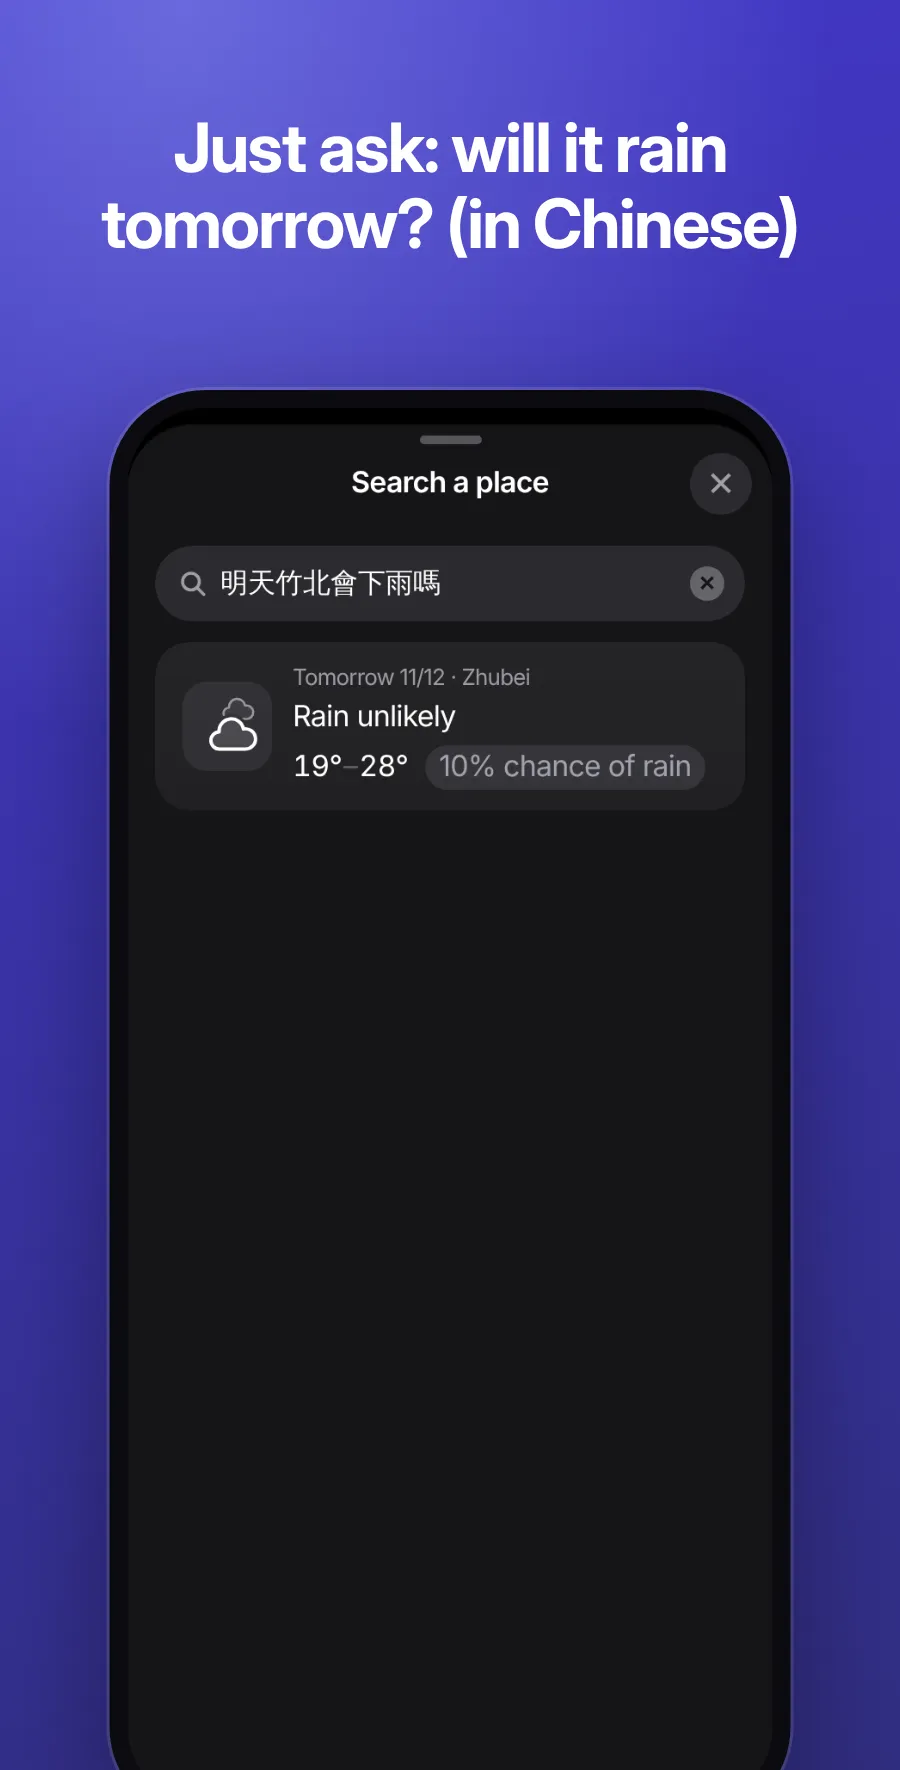
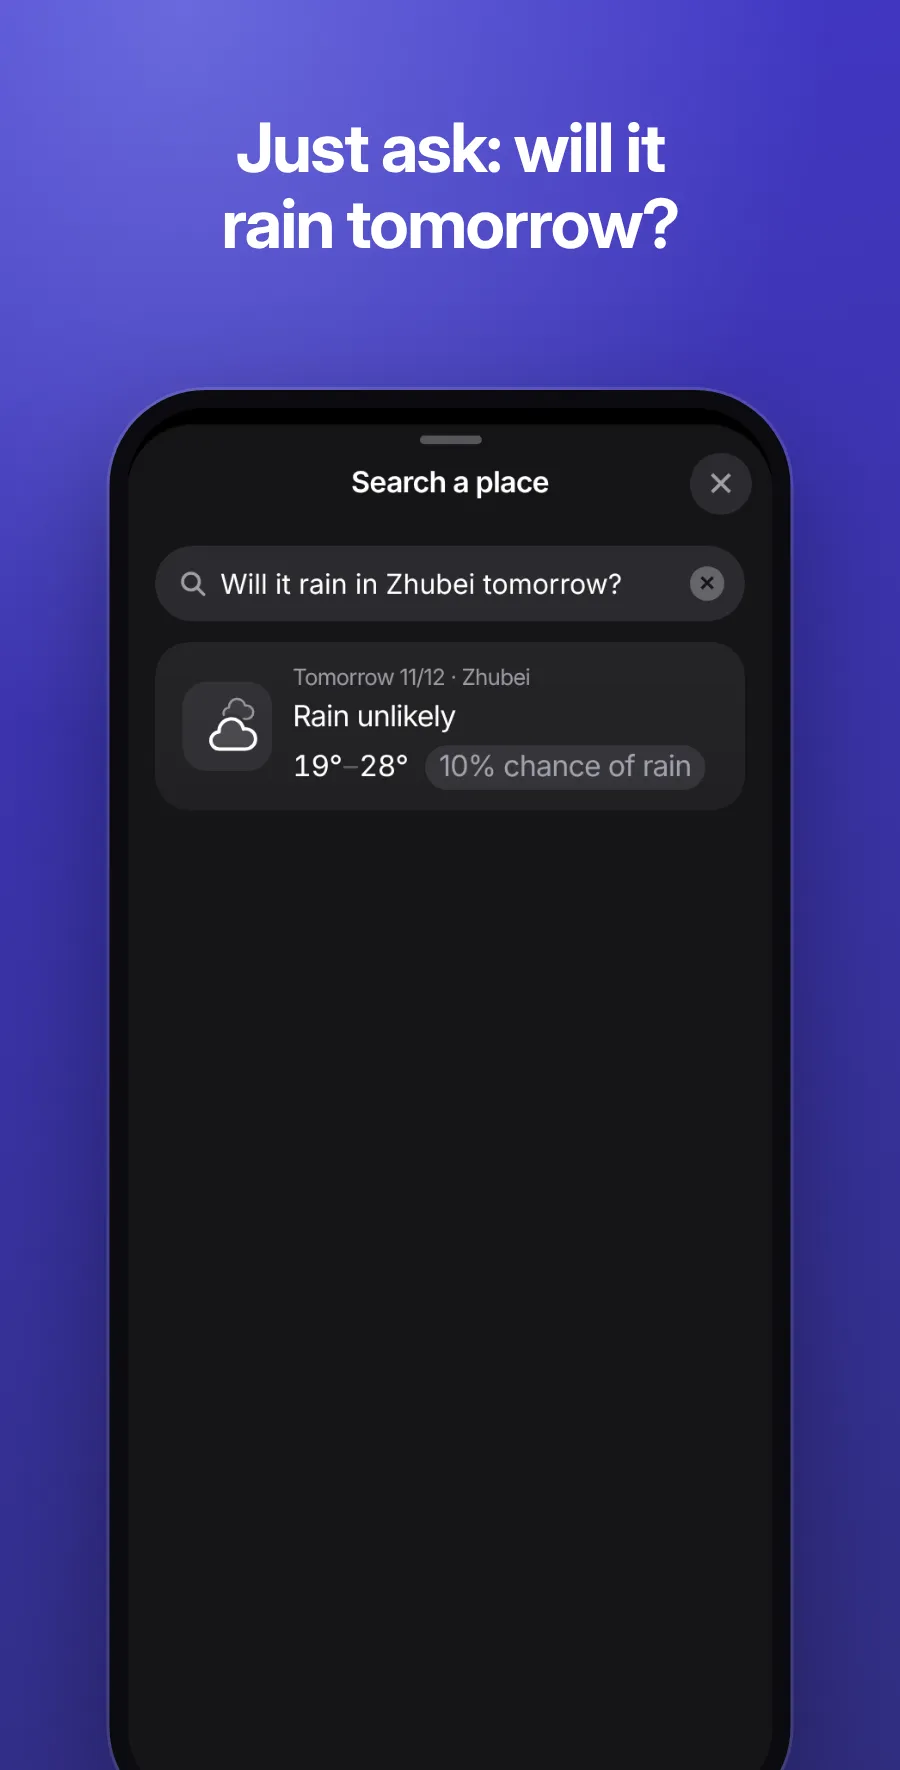
Store shots: 問天氣 asked in English on the English set
Claude-Session: https://claude.ai/code/session_01DckgWMSXdaHh8fMPe1M6EA

Changed region(s): [[0.1244, 0.0621, 0.9022, 0.1554], [0.2489, 0.3107, 0.6844, 0.3418]]

diff --git a/README.md b/README.md
@@ -17,7 +17,7 @@ One forecast for where you are and the places you pin, down to the township. Par
 
 <p align="center">
   <img src="docs/screenshots/weather-1.webp" width="30%" alt="Today, in one look">
-  <img src="docs/screenshots/weather-2.webp" width="30%" alt="Just ask: will it rain tomorrow? (in Chinese)">
+  <img src="docs/screenshots/weather-2.webp" width="30%" alt="Just ask: will it rain tomorrow?">
   <img src="docs/screenshots/weather-3.webp" width="30%" alt="Rain, ten days ahead">
 </p>
 
